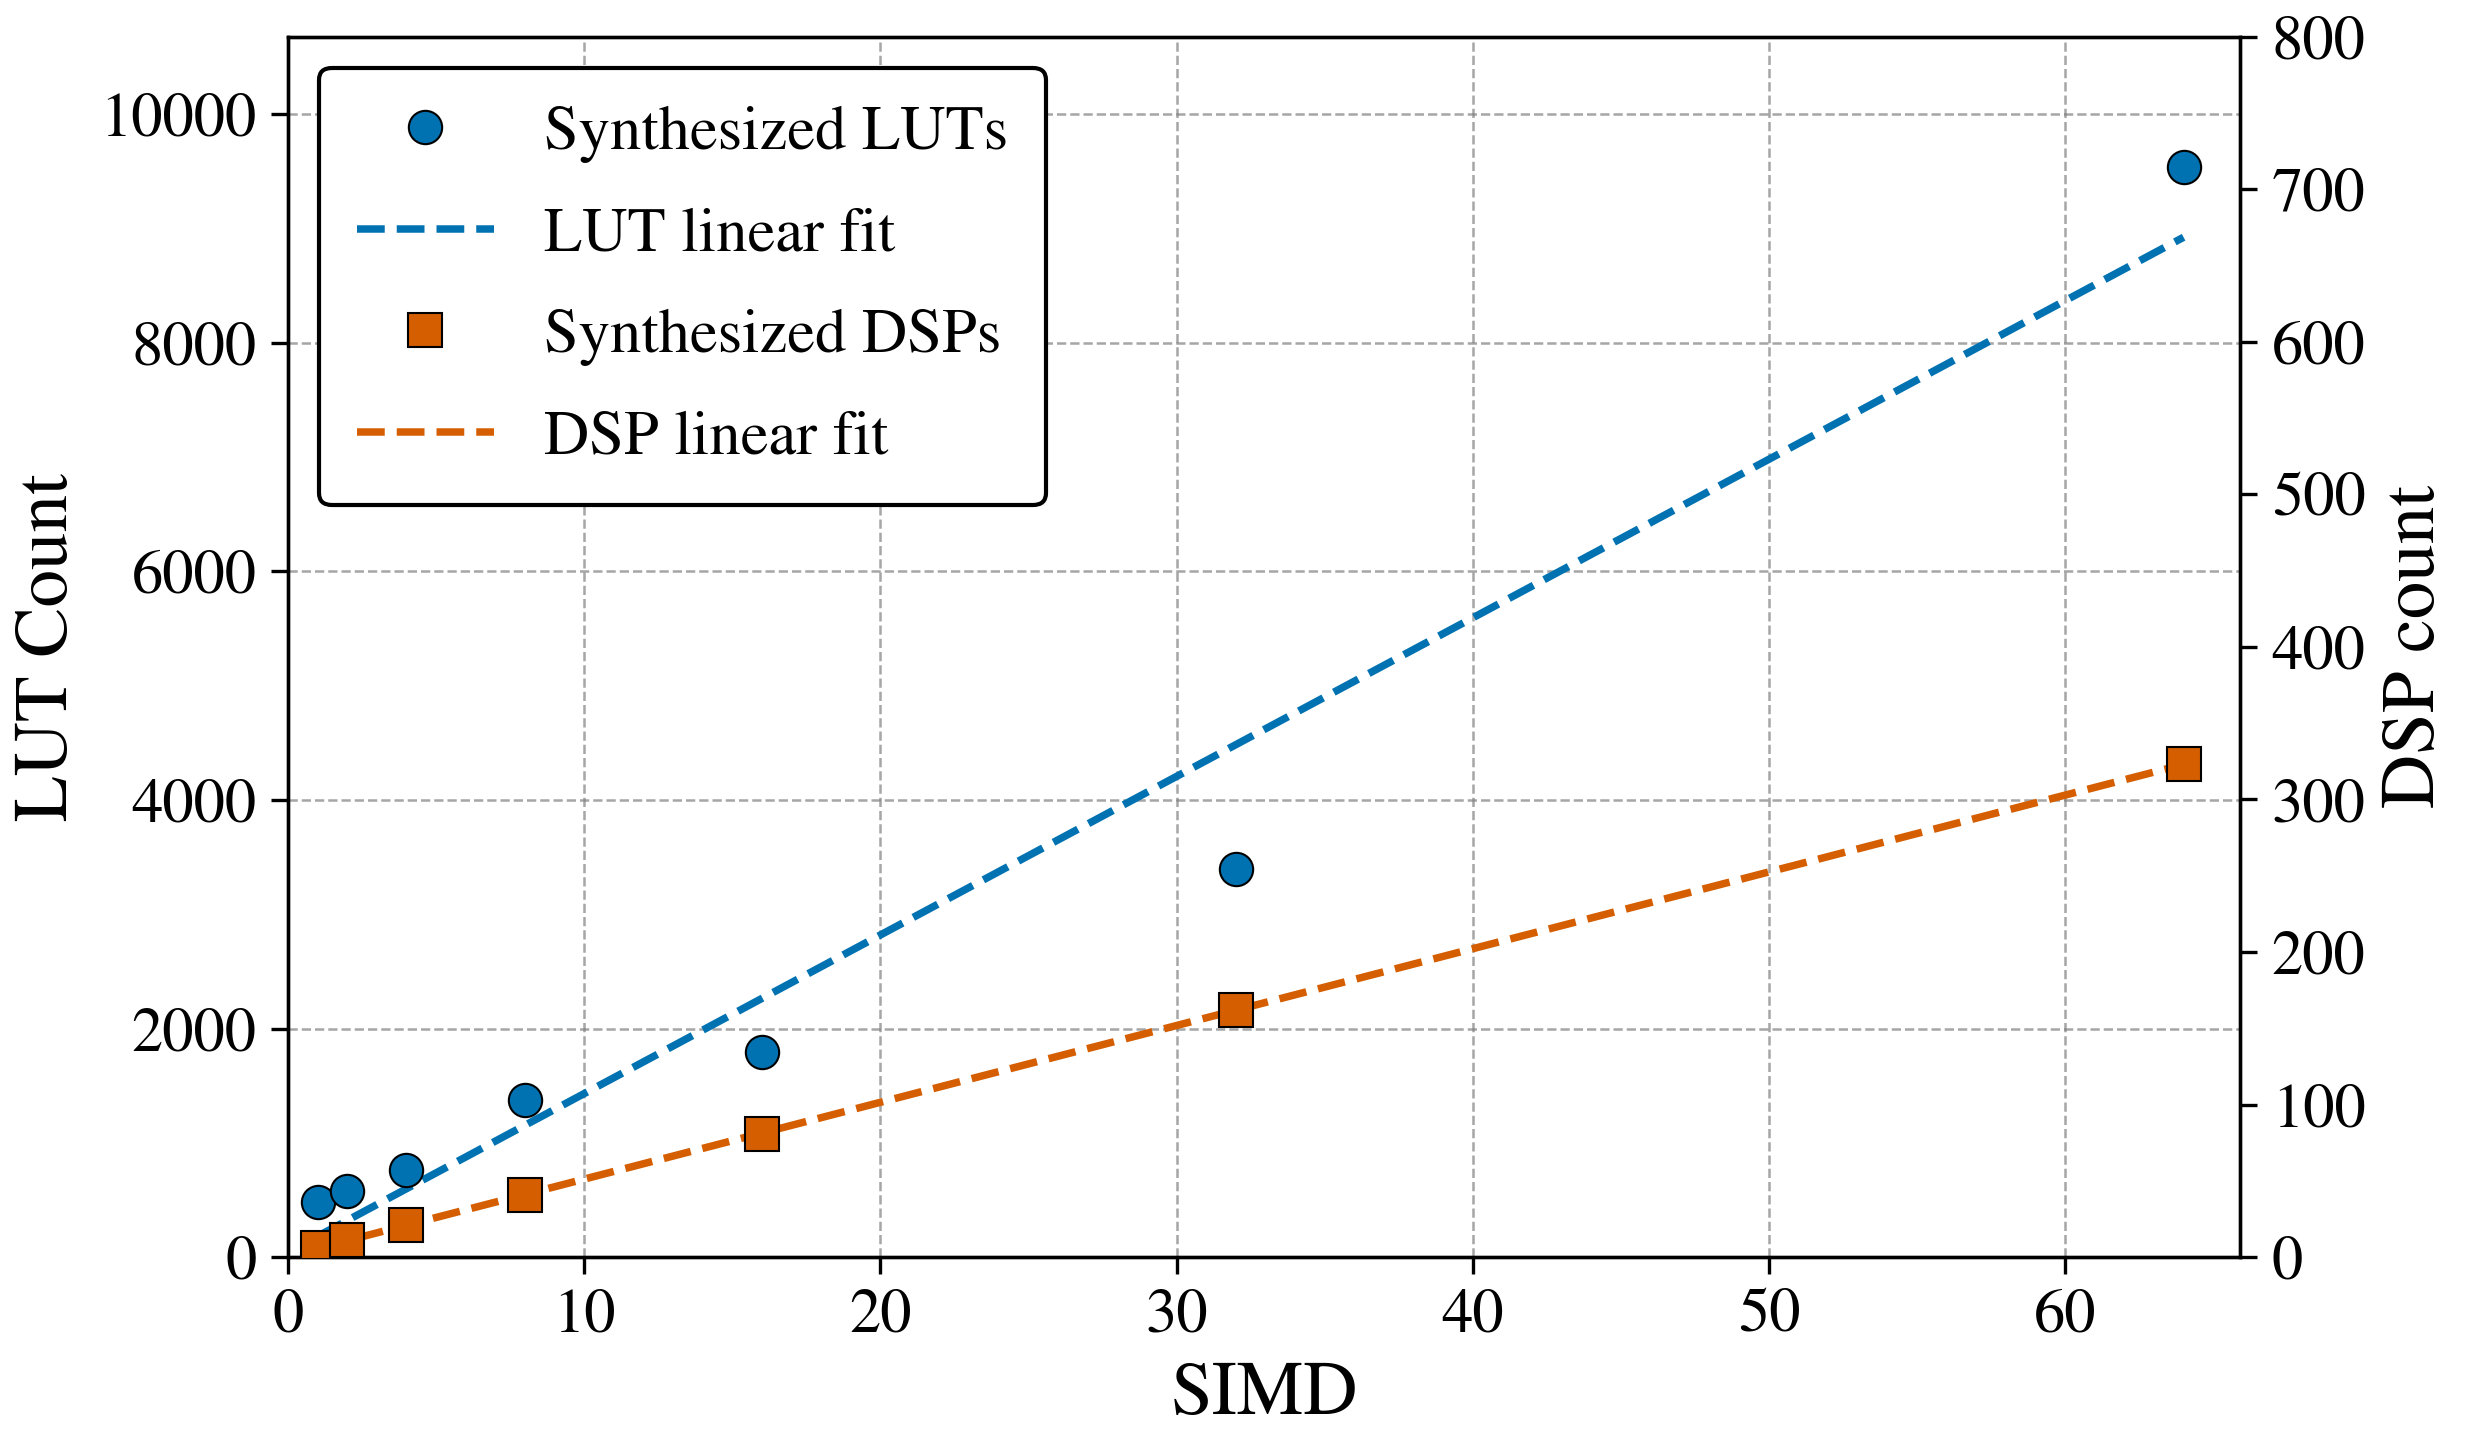
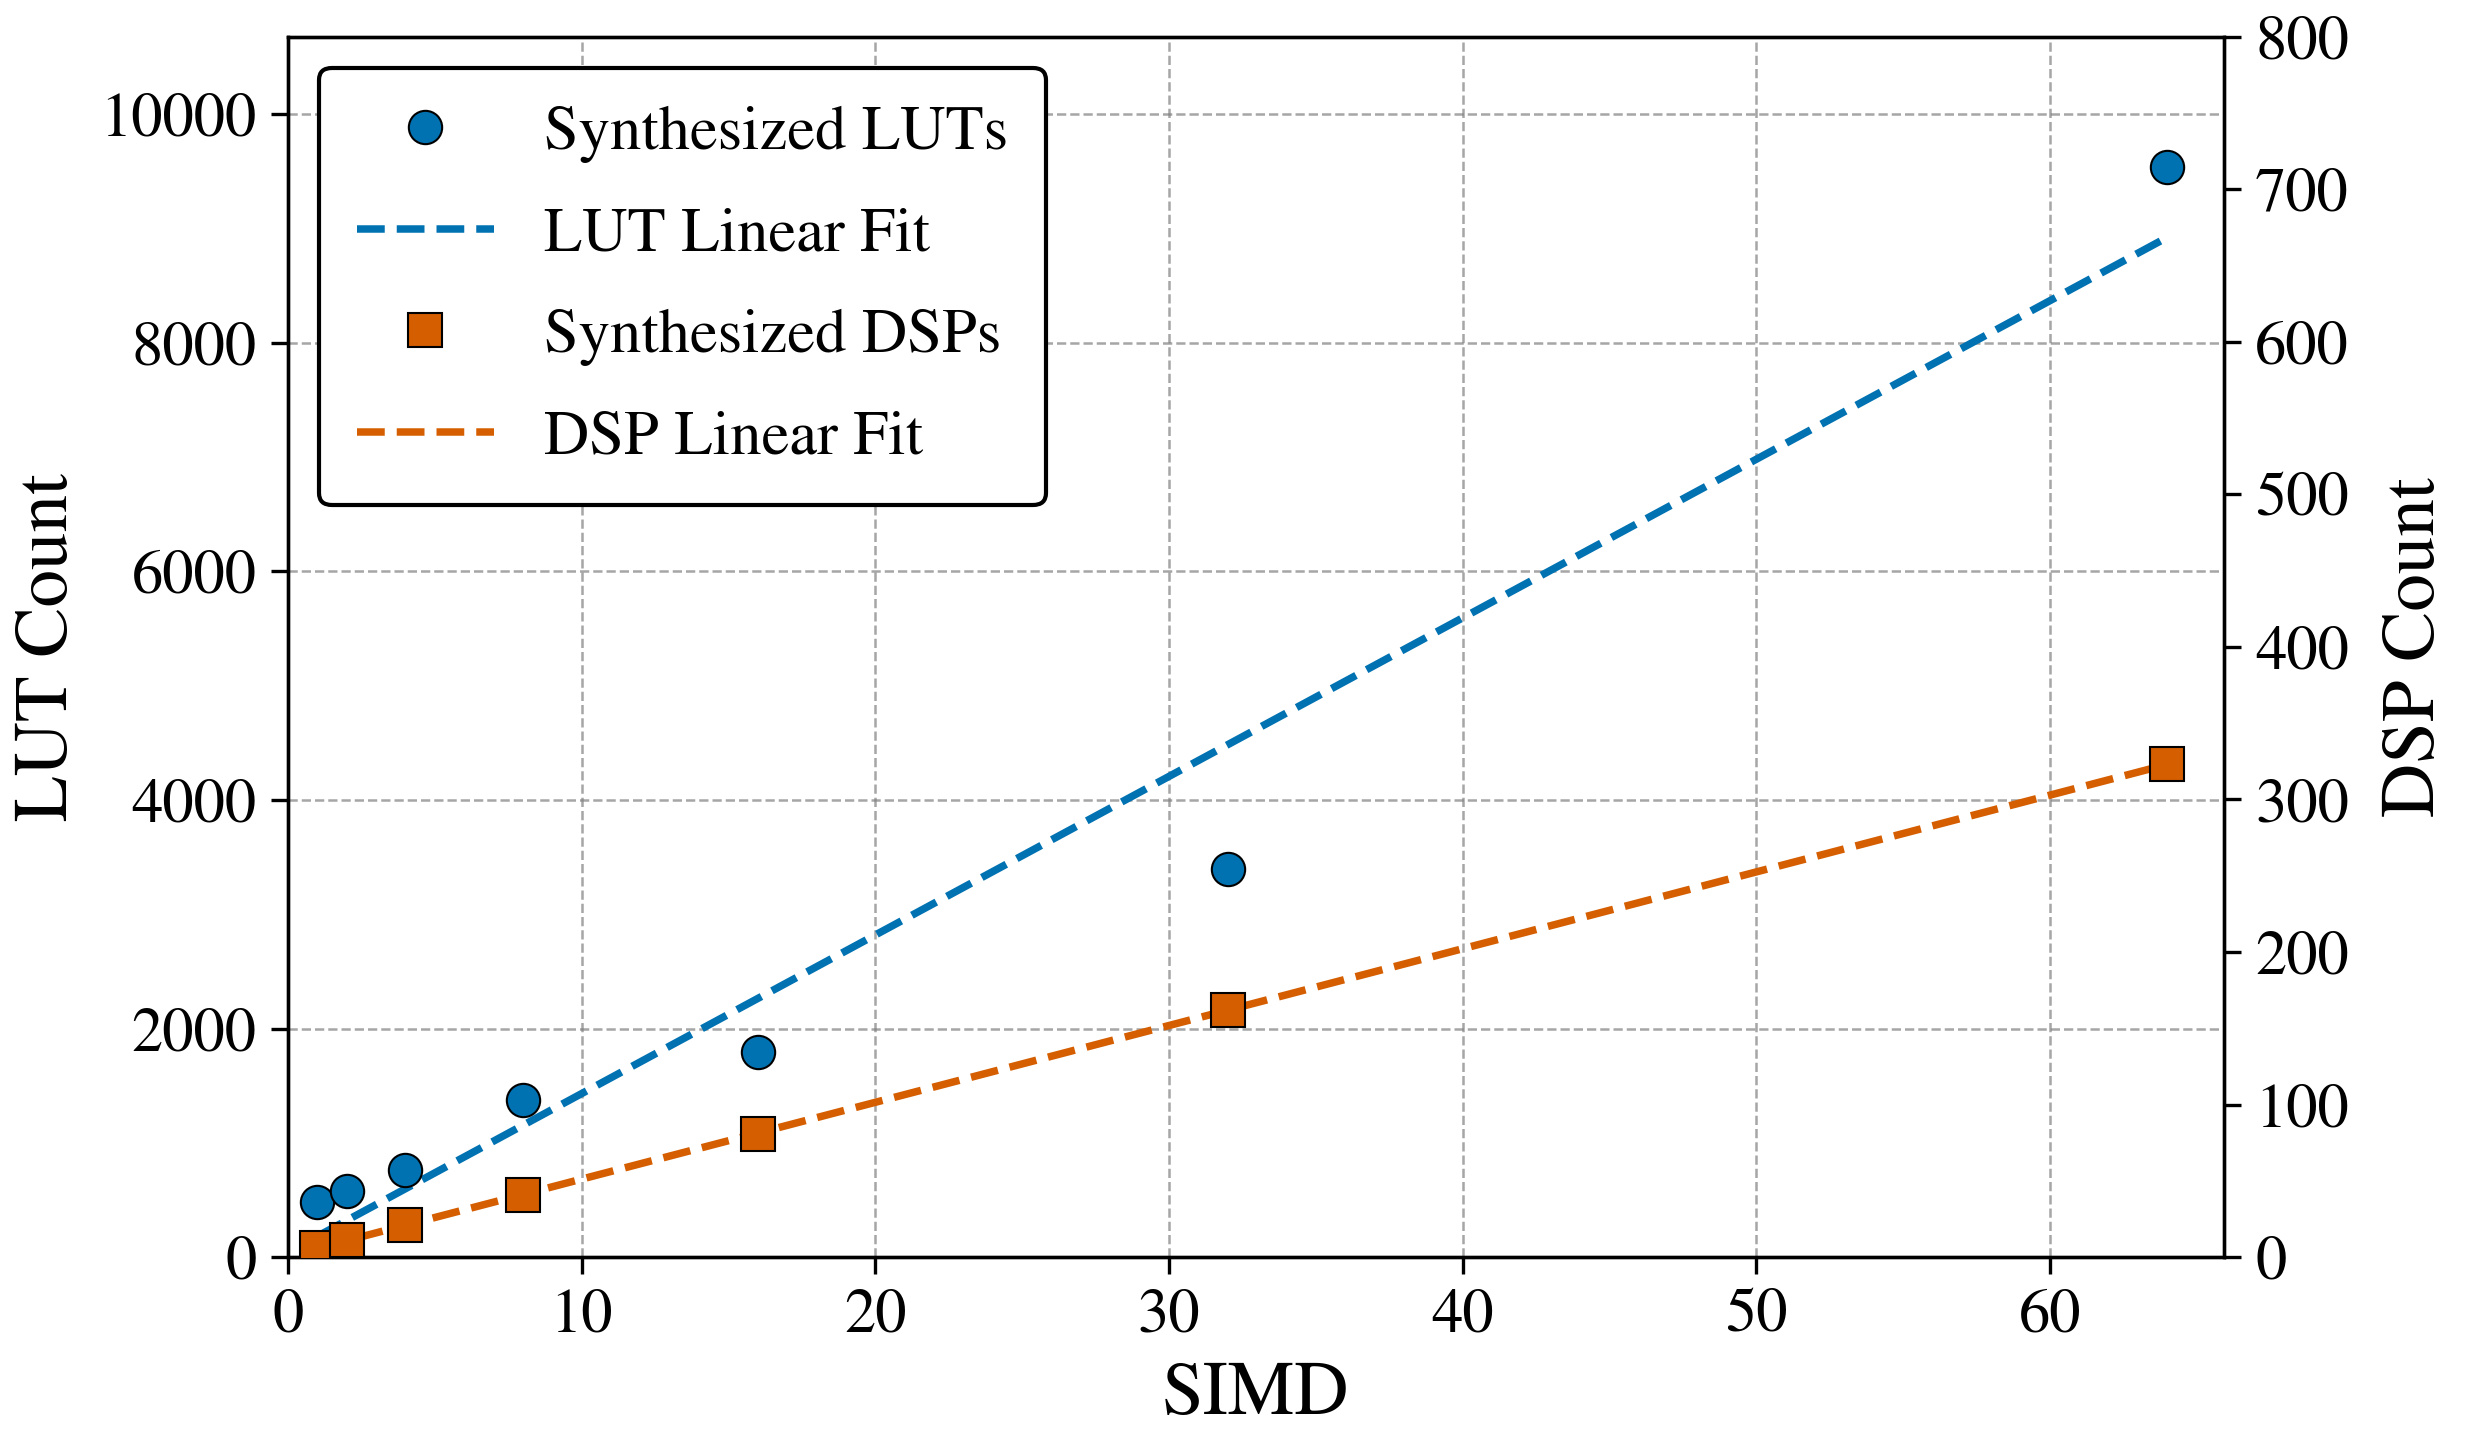
m

diff --git a/evaluation/layernorm/SIMD_sweep/scripts/plot_resources.py b/evaluation/layernorm/SIMD_sweep/scripts/plot_resources.py
@@ -115,9 +115,9 @@ DSP_YMAX = 800.0
 
 # Legend labels for the four drawn artists (two data series + two fit lines).
 LABEL_LUT_DATA = "Synthesized LUTs"
-LABEL_LUT_FIT = "LUT linear fit"
+LABEL_LUT_FIT = "LUT Linear Fit"
 LABEL_DSP_DATA = "Synthesized DSPs"
-LABEL_DSP_FIT = "DSP linear fit"
+LABEL_DSP_FIT = "DSP Linear Fit"
 
 # Extra padding (points) between the base-2 log x-axis tick *labels* and the tick
 # marks. The SIMD ticks are rendered as ``2^k`` powers, whose raised exponent
@@ -355,7 +355,9 @@ def draw_dual_axis(
     else:
         ax_lut.tick_params(axis="y", labelleft=False)
     if show_dsp_labels:
-        ax_dsp.set_ylabel(r"DSP count")
+        # labelpad nudges "DSP Count" a touch further from its (right-side) tick
+        # labels; the default ~4 pt would sit a little close to the 3-digit ticks.
+        ax_dsp.set_ylabel(r"DSP Count", labelpad=8.0)
     else:
         ax_dsp.tick_params(axis="y", labelright=False)
 
